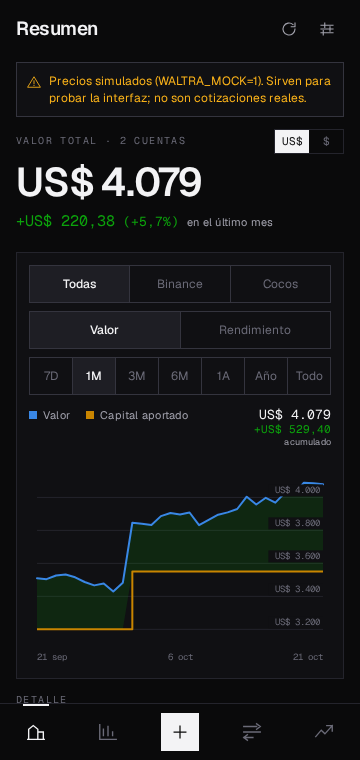
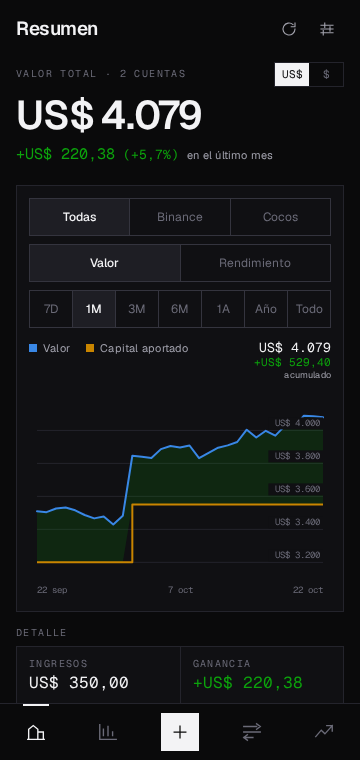
Waltra 1.3.3: fotos nuevas del README y «Traer desde» del último mes
- Fotos nuevas del README, elegidas por el usuario: resumen, rendimiento,
  métricas, cartera, detalle de una posición, movimientos, cargar un
  movimiento (el + con «¿Qué hiciste?»), insights y ajustes. Sin el aviso
  de precios simulados, que en la app sigue y en la presentación solo
  distraía; el README aclara que los precios son de ejemplo. Se sacan las
  que quedaron sin usar.
- `npm run docs:shots` saca las del README; con SHOTS_ALL=1, también otras
  pantallas para elegir.
- Binance: con la cuenta vacía, «Traer desde» proponía 90 días atrás. Ahora
  usa la misma regla que la sincronización: el último mes.

diff --git a/src/app/ajustes/binance/page.tsx b/src/app/ajustes/binance/page.tsx
@@ -7,7 +7,7 @@ import { SectionTitle } from "@/components/ui/Stat";
 import { useStore } from "@/lib/store";
 import { useBinanceConnection } from "@/lib/binance/use-connection";
 import { money, relativeTime, shortDate } from "@/lib/format";
-import { connectWarnings } from "@/lib/binance/sync";
+import { connectWarnings, defaultSince } from "@/lib/binance/sync";
 import type { Transaction } from "@/lib/types";
 import { today } from "@/lib/date";
 
@@ -189,13 +189,9 @@ function Conectar({
   const [error, setError] = useState<string | null>(null);
 
   // Lo anterior al ultimo dia cargado ya esta: se propone seguir desde ahi.
-  const desdeSugerido = useMemo(() => {
-    const dias = transactions.filter((t) => t.accountId === accountId).map((t) => t.date.slice(0, 10)).sort();
-    if (dias.length) return dias[dias.length - 1];
-    const d = new Date();
-    d.setDate(d.getDate() - 90);
-    return today(d);
-  }, [transactions, accountId]);
+  // La misma regla que usa la sincronizacion: el ultimo dia cargado en esa
+  // cuenta, o el ultimo mes si no hay nada.
+  const desdeSugerido = useMemo(() => defaultSince(transactions, accountId), [transactions, accountId]);
   const desde = since ?? desdeSugerido;
   const avisos = useMemo(() => connectWarnings(transactions, accountId, desde), [transactions, accountId, desde]);
   const [reemplazar, setReemplazar] = useState(true);

diff --git a/README.md b/README.md
@@ -11,16 +11,16 @@ distancia entre ellas es —literalmente— lo que ganaste.
 <p>
   <img src="docs/img/resumen.png" width="200" alt="Resumen: valor de la cartera contra capital aportado">
   <img src="docs/img/rendimiento.png" width="200" alt="Rendimiento de la cartera contra el S&P 500">
-  <img src="docs/img/carga.png" width="200" alt="Carga de un movimiento escribiendo la frase">
-  <img src="docs/img/importar.png" width="200" alt="Importar un bloc de notas entero">
-  <img src="docs/img/capturas.png" width="200" alt="Movimientos de Cocos leídos de una captura, para revisar antes de guardar">
-  <img src="docs/img/binance.png" width="200" alt="Movimientos de Binance traídos solos: compras, Convert y P2P">
+  <img src="docs/img/metricas.png" width="200" alt="Métricas, cuentas y composición de la cartera">
   <img src="docs/img/cartera.png" width="200" alt="Cartera: posiciones con su resultado">
+  <img src="docs/img/posicion.png" width="200" alt="Detalle de una posición: costo, peso e histórico">
+  <img src="docs/img/movimientos.png" width="200" alt="Movimientos, filtrables por tipo y por cuenta">
+  <img src="docs/img/agregar.png" width="200" alt="Cargar un movimiento: primero qué hiciste">
   <img src="docs/img/insights.png" width="200" alt="Insights: análisis con fuentes">
+  <img src="docs/img/ajustes.png" width="200" alt="Ajustes, con la conexión a Binance">
 </p>
 
-<sub>Las capturas usan la cartera de ejemplo con precios simulados — de ahí el
-cartel amarillo. Con precios reales ese aviso no aparece.</sub>
+<sub>Las capturas usan la cartera de ejemplo, con precios simulados.</sub>
 
 ## Qué hace
 
